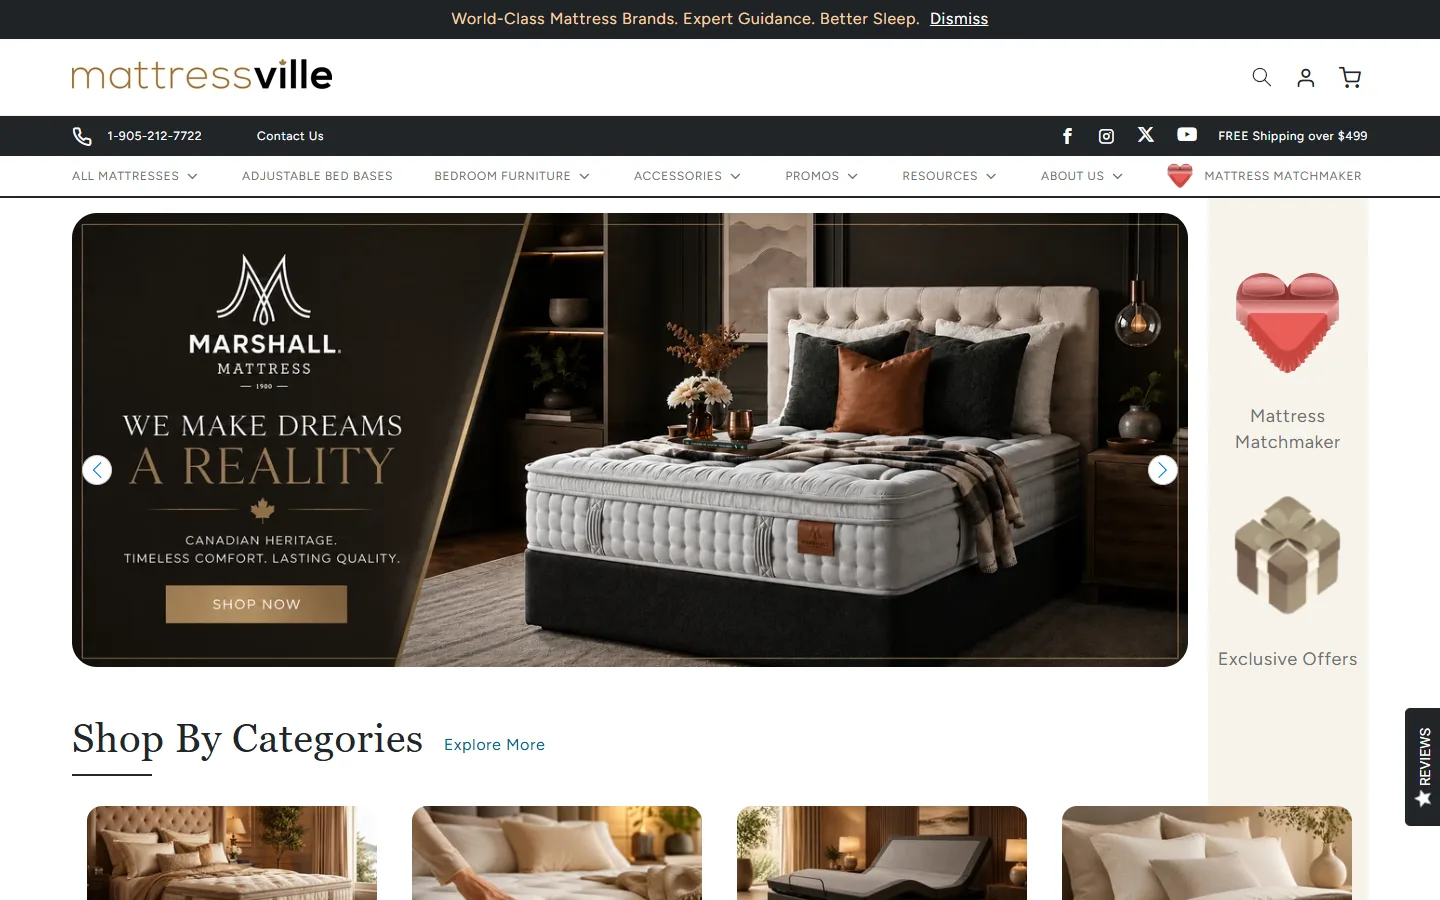
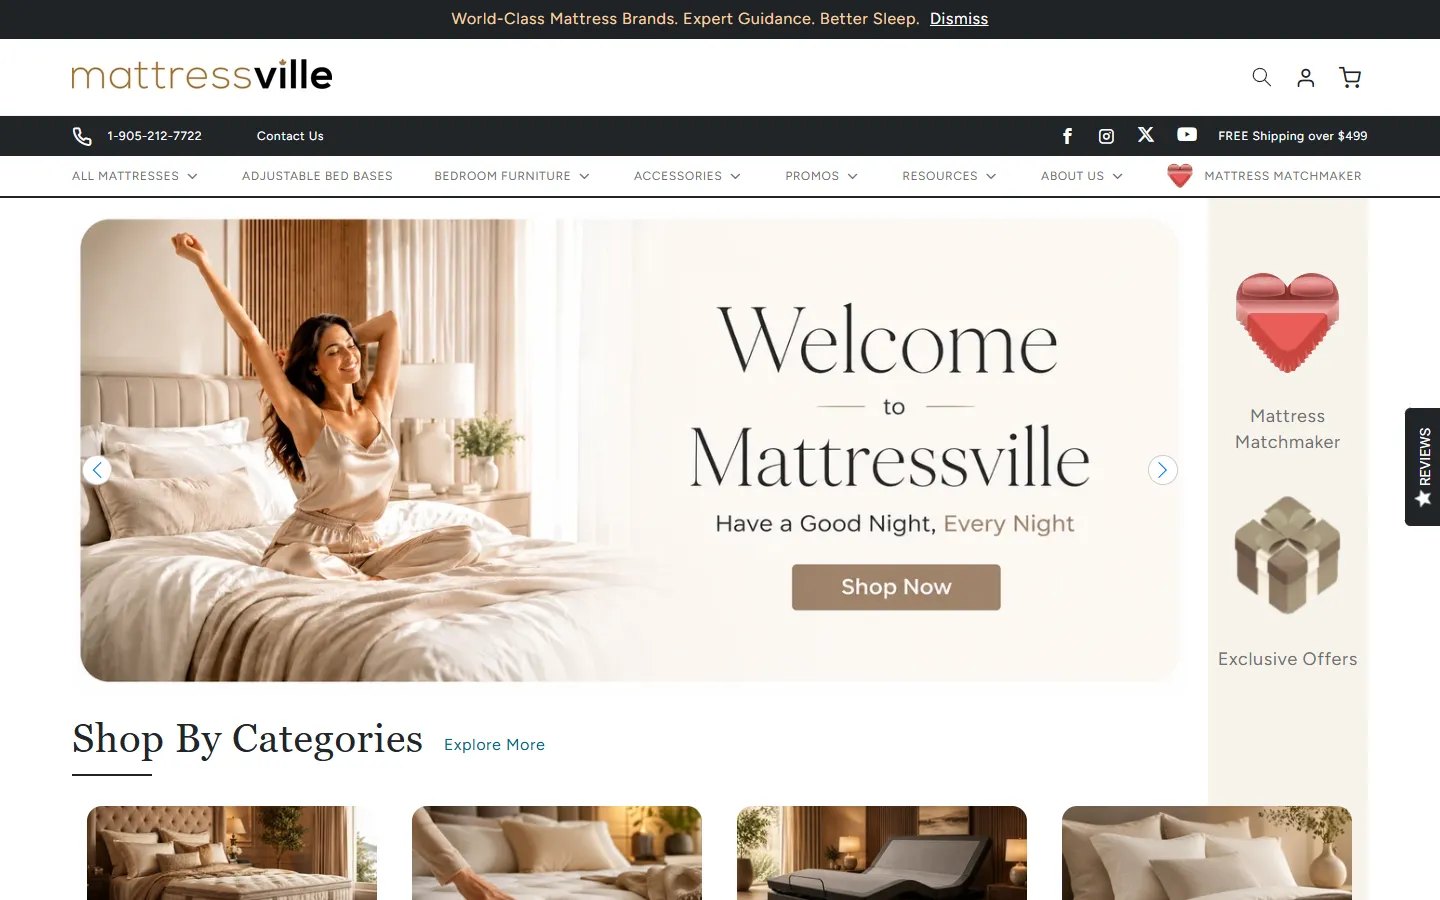
issue fixed

diff --git a/app/case-studies/[slug]/page.js b/app/case-studies/[slug]/page.js
@@ -29,6 +29,23 @@ const host = (url) => url.replace(/^https?:\/\//, '').replace(/\/$/, '');
 // Longer pages scroll for longer, so the speed feels the same on every case study.
 const scrollSeconds = (img) => Math.min(Math.max(Math.round(((img.fullHeight || 0) / 1200) * 2.8), 6), 14);
 
+// Sections sit at different depths on the desktop and mobile layouts, so a plain
+// top-to-bottom scroll drifts apart. With sync points, both screens get keyframes
+// that reach each section at the same moment.
+function syncKeyframes(slug, img) {
+  if (!img.scrollSync) return null;
+  const maxD = img.fullHeight - 750; // desktop frame is 16:10 of a 1200px-wide image
+  const maxM = img.mobileFullHeight - 844; // phone frame is 390 x 844
+  const pts = [...img.scrollSync.map(([d, m]) => [Math.min(d, maxD), Math.min(m, maxM)]), [maxD, maxM]]
+    .filter(([d, m], i, a) => i === 0 || (d > a[i - 1][0] && m > a[i - 1][1]));
+  const at = ([d, m]) => (((d / maxD + m / maxM) / 2) * 100).toFixed(2);
+  const kf = (name, i, h) =>
+    `@keyframes ${name}{${pts.map((p) => `${at(p)}%{transform:translateY(-${((p[i] / h) * 100).toFixed(3)}%)}`).join('')}}`;
+  const d = `cd-sync-${slug}-d`;
+  const m = `cd-sync-${slug}-m`;
+  return { d, m, css: kf(d, 0, img.fullHeight) + kf(m, 1, img.mobileFullHeight) };
+}
+
 function Showcase({ c }) {
   if (!c.images) {
     return (
@@ -61,6 +78,7 @@ export default async function CaseStudyPage({ params }) {
   if (idx === -1) notFound();
   const c = caseStudies[idx];
   const next = caseStudies[(idx + 1) % caseStudies.length];
+  const sync = c.images?.full && syncKeyframes(c.slug, c.images);
 
   const facts = [
     { label: 'Client', value: c.client },
@@ -160,7 +178,8 @@ export default async function CaseStudyPage({ params }) {
                 {c.images.full ? 'Hover over this section to scroll through the whole homepage on desktop and mobile.' : 'Designed to work beautifully on desktop and mobile.'}
               </p>
             </div>
-            <div className={`cd-preview ${c.images.full ? 'scrolls' : ''}`} style={{ '--dur': `${scrollSeconds(c.images)}s` }}>
+            {sync && <style>{sync.css}</style>}
+            <div className={`cd-preview ${c.images.full ? 'scrolls' : ''} ${sync ? 'synced' : ''}`} style={{ '--dur': `${scrollSeconds(c.images)}s` }}>
               <div className="cd-browser big" data-reveal>
                 <div className="cd-browser-bar">
                   <span className="cd-dots"><i /><i /><i /></span>
@@ -173,6 +192,7 @@ export default async function CaseStudyPage({ params }) {
                     width={1200}
                     height={c.images.fullHeight || 750}
                     sizes="(max-width: 960px) 92vw, 820px"
+                    style={sync ? { '--anim': sync.d } : undefined}
                   />
                 </div>
               </div>
@@ -184,6 +204,7 @@ export default async function CaseStudyPage({ params }) {
                     width={390}
                     height={c.images.mobileFullHeight || 780}
                     sizes="240px"
+                    style={sync ? { '--anim': sync.m } : undefined}
                   />
                 </div>
               </div>

diff --git a/lib/data.js b/lib/data.js
@@ -175,10 +175,15 @@ export const caseStudies = [
     images: {
       desktop: '/images/case-studies/inovexia-desktop.webp',
       mobile: '/images/case-studies/inovexia-mobile.webp',
-      full: '/images/case-studies/inovexia-full.webp',
-      fullHeight: 3458,
-      mobileFull: '/images/case-studies/inovexia-mobile-full.webp',
-      mobileFullHeight: 7000,
+      full: '/images/case-studies/inovexia-full-v2.webp',
+      fullHeight: 10674,
+      mobileFull: '/images/case-studies/inovexia-mobile-full-v2.webp',
+      mobileFullHeight: 17462,
+      // [desktop, mobile] top of each homepage section, in full-image px (desktop at 1200 wide, mobile at 390)
+      scrollSync: [
+        [0, 0], [991, 1362], [1844, 3140], [2528, 4413], [3414, 5886], [4124, 7251],
+        [4723, 8027], [5803, 10759], [7620, 12834], [8372, 13741], [8807, 14299], [9639, 16103],
+      ],
     },
     overview:
       'Inovexia Software is a digital solutions company that designs and builds websites, apps and software platforms for businesses around the world, alongside its own products — Examiner, an online proctored exam platform, and an accounting suite.',

diff --git a/app/globals.css b/app/globals.css
@@ -5030,6 +5030,22 @@ p {
   50%, 60% { top: 100%; transform: translateY(-100%); }
   100% { top: 0; transform: none; }
 }
+/* case studies with sync points follow per-page keyframes (--anim, built in the page)
+   so desktop and mobile pass each section together */
+@media (prefers-reduced-motion: no-preference) {
+  .cd-preview-section:hover .cd-preview.scrolls.synced .cd-scroll img {
+    top: 0;
+    transform: none;
+    animation: var(--anim) var(--dur, 9s) linear forwards;
+  }
+  @media (hover: none) {
+    .cd-preview.scrolls.synced .cd-scroll img {
+      top: 0;
+      transform: none;
+      animation: var(--anim) var(--dur, 9s) linear 1.5s infinite alternate;
+    }
+  }
+}
 @media (prefers-reduced-motion: reduce) {
   .cd-preview-section:hover .cd-preview.scrolls .cd-scroll img,
   .cd-preview.scrolls .cd-scroll img {
